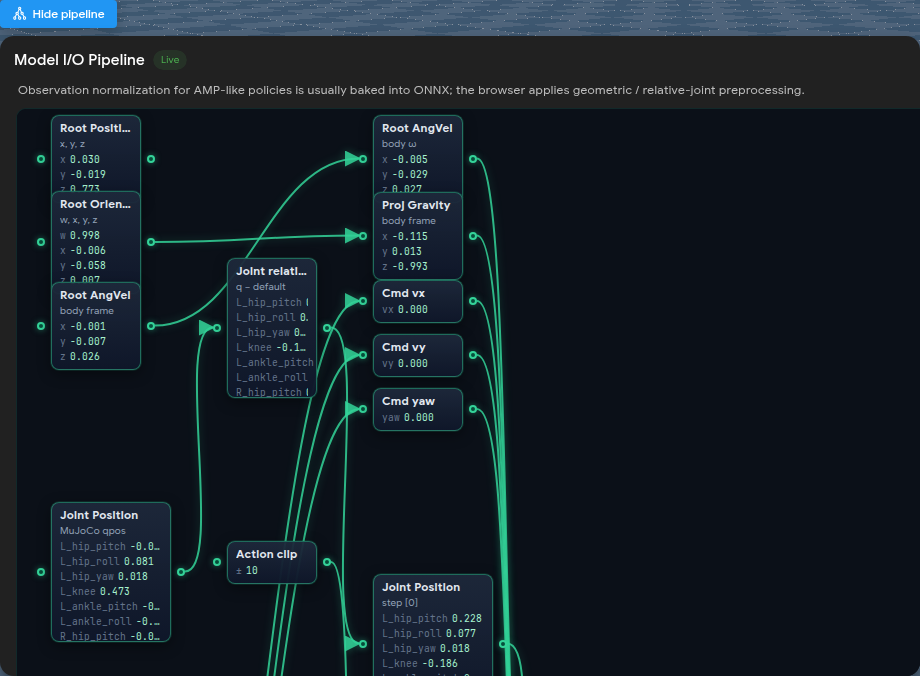
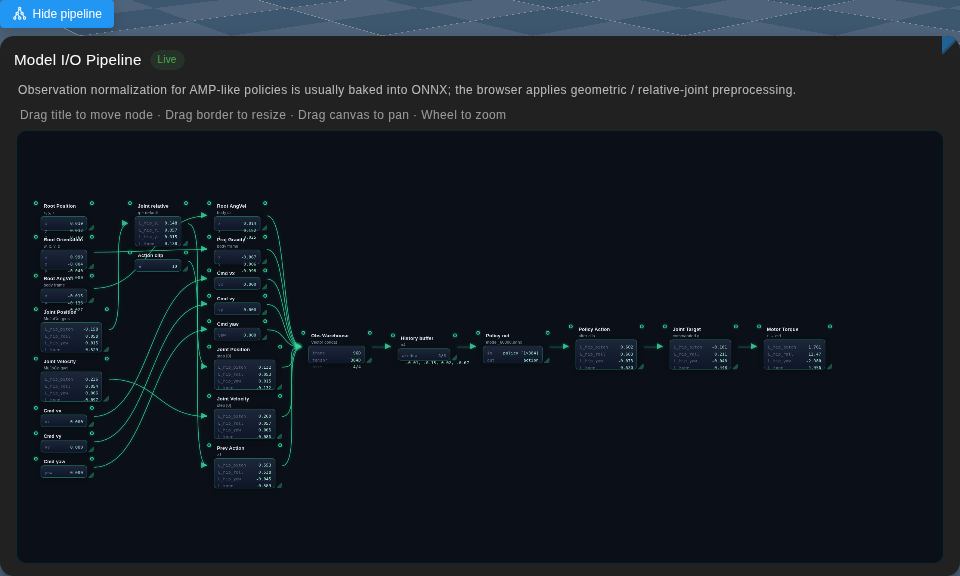
fix: 修复模型 I/O 流程图可读性问题与画布溢出 bug
- 桌面端画布被推到面板外不可见：缺少 flex 弹性收缩链导致 viewport 高度撑到内容尺寸（~1754px），fitViewport 据此计算 panY 把内容推出可视区。统一在 .pipeline-shell 上设 flex/min-height
- 滚动型节点（关节相关）高度按 lineCount 累积到 ~440px：实际卡片自带滚动，按可见行数封顶 6 行计算高度
- 节点过窄导致标题/数值被截断：信号节点 136→160，关节节点 172→200，仓库/历史/策略网络节点同步加宽
- 滚轮在可滚动节点内会被劫持成画布缩放：先尝试原生滚动，到达边界后再触发缩放
- 触屏在可滚动节点内无法滚动（父级 touch-action: none）：补回 touch-action: pan-y
- 关节名过长（L_shoulder_pitch）挤掉数值：让 key 自动省略号截断，value 保持完整并贴右
- 在标题/数值上加 title 属性方便悬停查看完整内容
- fitViewport 增加 FIT_MIN_SCALE=0.12，移动端宽图能完整自动适配（手动缩放仍受 MIN_SCALE=0.25 限制）

Changed region(s): [[0.0, 0.0, 1.0, 1.0], [0.3043, 0.2812, 0.3348, 0.3125]]

diff --git a/src/components/ModelIOPipelineGraph.vue b/src/components/ModelIOPipelineGraph.vue
@@ -75,16 +75,20 @@
                   @mousedown.stop="onNodeMoveStart(node.id, $event)"
                   @touchstart.stop="onNodeMoveStart(node.id, $event)"
                 >
-                  <div class="pipeline-node-title">{{ node.title }}</div>
-                  <div v-if="node.subtitle" class="pipeline-node-subtitle">{{ node.subtitle }}</div>
+                  <div class="pipeline-node-title" :title="node.title">{{ node.title }}</div>
+                  <div
+                    v-if="node.subtitle"
+                    class="pipeline-node-subtitle"
+                    :title="node.subtitle"
+                  >{{ node.subtitle }}</div>
                 </div>
                 <div
                   class="pipeline-node-card"
                   :class="{ 'pipeline-node-card-scroll': node.scrollable }"
                 >
                   <div v-for="(line, idx) in node.lines" :key="idx" class="pipeline-node-line">
-                    <span class="pipeline-node-key">{{ line.k }}</span>
-                    <span class="pipeline-node-val">{{ line.v }}</span>
+                    <span class="pipeline-node-key" :title="line.k">{{ line.k }}</span>
+                    <span class="pipeline-node-val" :title="line.v">{{ line.v }}</span>
                   </div>
                 </div>
               </div>
@@ -135,6 +139,7 @@ let graphInstanceCounter = 0;
 
 const MIN_SCALE = 0.25;
 const MAX_SCALE = 3;
+const FIT_MIN_SCALE = 0.12;
 const WHEEL_ZOOM_FACTOR = 1.1;
 
 function touchDistance(touches) {
@@ -474,6 +479,15 @@ export default {
       if (!this.$refs.viewport?.contains(e.target)) {
         return;
       }
+      const scrollable = e.target?.closest?.('.pipeline-node-card-scroll');
+      if (scrollable && !e.ctrlKey && !e.metaKey) {
+        const canScrollUp = scrollable.scrollTop > 0;
+        const canScrollDown =
+          scrollable.scrollTop < scrollable.scrollHeight - scrollable.clientHeight - 1;
+        if ((e.deltaY < 0 && canScrollUp) || (e.deltaY > 0 && canScrollDown)) {
+          return;
+        }
+      }
       e.preventDefault();
       const factor = e.deltaY < 0 ? WHEEL_ZOOM_FACTOR : 1 / WHEEL_ZOOM_FACTOR;
       this.zoomAt(e.clientX, e.clientY, this.scale * factor);
@@ -632,7 +646,7 @@ export default {
         (vh - pad * 2) / this.displayLayout.height,
         1
       );
-      this.scale = Math.max(MIN_SCALE, fitScale);
+      this.scale = Math.max(FIT_MIN_SCALE, fitScale);
       this.panX = pad + (vw - pad * 2 - this.displayLayout.width * this.scale) / 2;
       this.panY = pad + (vh - pad * 2 - this.displayLayout.height * this.scale) / 2;
     },
@@ -651,11 +665,12 @@ export default {
   display: flex;
   flex-direction: column;
   gap: 6px;
+  flex: 1 1 auto;
+  min-height: 0;
 }
 
 .pipeline-shell-mobile {
-  flex: 1 1 auto;
-  min-height: 0;
+  /* mobile inherits flex sizing from base */
 }
 
 .pipeline-scroll-hint {
@@ -902,14 +917,19 @@ export default {
 
 .pipeline-node-key {
   color: #64748b;
-  flex-shrink: 0;
+  overflow: hidden;
+  text-overflow: ellipsis;
+  white-space: nowrap;
+  min-width: 0;
+  flex: 1 1 auto;
 }
 
 .pipeline-node-val {
   color: #a7f3d0;
-  overflow: hidden;
-  text-overflow: ellipsis;
   white-space: nowrap;
+  flex-shrink: 0;
+  margin-left: auto;
+  padding-left: 4px;
 }
 
 .pipeline-port {
@@ -934,6 +954,7 @@ export default {
   -webkit-overflow-scrolling: touch;
   cursor: auto;
   user-select: text;
+  touch-action: pan-y;
 }
 
 .pipeline-shell-mobile .pipeline-node-card-scroll {

diff --git a/src/simulation/pipelineGraphLayout.js b/src/simulation/pipelineGraphLayout.js
@@ -88,21 +88,21 @@ function buildHorizontalAtomicGraph(telemetry, zh, atomic) {
   const hasHistory = (telemetry.concat?.historyLength ?? 1) > 1;
 
   const colWidths = [];
-  colWidths.push(Math.max(136, ...simNodes.map((n) => n.width ?? 136), 136));
+  colWidths.push(Math.max(160, ...simNodes.map((n) => n.width ?? 160)));
   if (prepNodes.length) {
-    colWidths.push(Math.max(136, ...prepNodes.map((n) => n.width ?? 136), 136));
+    colWidths.push(Math.max(160, ...prepNodes.map((n) => n.width ?? 160)));
   }
-  colWidths.push(Math.max(168, ...obsNodes.map((n) => n.width ?? 168), 168));
-  colWidths.push(172);
+  colWidths.push(Math.max(192, ...obsNodes.map((n) => n.width ?? 192)));
+  colWidths.push(188);
   if (hasHistory) {
-    colWidths.push(156);
+    colWidths.push(176);
   }
-  colWidths.push(184);
+  colWidths.push(196);
   for (const out of outputNodes) {
-    colWidths.push(Math.max(164, out.width ?? 164));
+    colWidths.push(Math.max(200, out.width ?? 200));
   }
   if (motorNodes.length) {
-    colWidths.push(Math.max(172, ...motorNodes.map((n) => n.width ?? 172), 172));
+    colWidths.push(Math.max(200, ...motorNodes.map((n) => n.width ?? 200)));
   }
 
   const nodes = [];
@@ -145,10 +145,10 @@ function buildHorizontalAtomicGraph(telemetry, zh, atomic) {
     kind: 'warehouse',
     title: zh ? '观测仓库' : 'Obs Warehouse',
     subtitle: zh ? '向量拼接' : 'Vector concat',
-    width: 172,
-    height: 68,
+    width: 188,
+    height: 86,
     x: xWarehouse,
-    y: coreY - 34,
+    y: coreY - 43,
     lines: [
       { k: zh ? '单帧' : 'frame', v: `${telemetry.concat.currentFrameSize}D` },
       { k: zh ? '张量' : 'tensor', v: `${telemetry.concat.tensorSize}D` },
@@ -165,10 +165,10 @@ function buildHorizontalAtomicGraph(telemetry, zh, atomic) {
       kind: 'process',
       title: zh ? '历史缓冲' : 'History buffer',
       subtitle: `×${telemetry.concat.historyLength}`,
-      width: 156,
-      height: 58,
+      width: 176,
+      height: 72,
       x: xHistory,
-      y: coreY - 29,
+      y: coreY - 36,
       lines: [
         { k: zh ? '窗口' : 'window', v: historyLabel },
         { k: zh ? '预览' : 'preview', v: formatVec(telemetry.concat.tensorPreview, 4) }
@@ -186,10 +186,10 @@ function buildHorizontalAtomicGraph(telemetry, zh, atomic) {
     kind: 'model',
     title: zh ? '策略网络' : 'Policy net',
     subtitle: modelName,
-    width: 184,
-    height: 74,
+    width: 196,
+    height: 86,
     x: xOnnx,
-    y: coreY - 37,
+    y: coreY - 43,
     lines: [
       { k: 'in', v: `${telemetry.onnx.inKeys.join(',')} ${shapeStr(telemetry.onnx.inputShape)}` },
       { k: 'out', v: telemetry.onnx.outKeys.join(',') }

diff --git a/src/simulation/pipelineAtomicNodes.js b/src/simulation/pipelineAtomicNodes.js
@@ -37,8 +37,12 @@ function jointLines(jointNames, values, max = Infinity) {
   return lines;
 }
 
-function nodeHeight(lineCount) {
-  return Math.max(50, 34 + lineCount * 14);
+function nodeHeight(lineCount, scrollable = false) {
+  if (scrollable) {
+    const visibleLines = Math.min(lineCount, 6);
+    return Math.max(96, 36 + visibleLines * 14);
+  }
+  return Math.max(56, 36 + lineCount * 14);
 }
 
 function decomposeObsBlock(block, slice, jointNames, lang) {
@@ -213,10 +217,11 @@ export function buildAtomicNodes(runner, state, obsVector, obsLayout, lang = 'zh
 
   const push = (spec) => {
     const lines = spec.lines ?? [];
+    const scrollable = Boolean(spec.scrollable);
     nodes.push({
-      width: spec.kind === 'joints' ? 172 : 136,
-      height: nodeHeight(lines.length),
-      scrollable: Boolean(spec.scrollable),
+      width: spec.kind === 'joints' ? 200 : 160,
+      height: nodeHeight(lines.length, scrollable),
+      scrollable,
       ...spec
     });
   };

diff --git a/src/utils/pipelineGraphNodeLayout.js b/src/utils/pipelineGraphNodeLayout.js
@@ -57,8 +57,8 @@ export function computeGraphBounds(nodes, fallback = {}, padding = 28) {
   let maxX = 0;
   let maxY = 0;
   for (const node of nodes) {
-    maxX = Math.max(maxX, (node.x ?? 0) + (node.width ?? 136));
-    maxY = Math.max(maxY, (node.y ?? 0) + (node.height ?? 50));
+    maxX = Math.max(maxX, (node.x ?? 0) + (node.width ?? 160));
+    maxY = Math.max(maxY, (node.y ?? 0) + (node.height ?? 56));
   }
   return {
     width: Math.max(fallback.width ?? 0, maxX + padding, 480),
